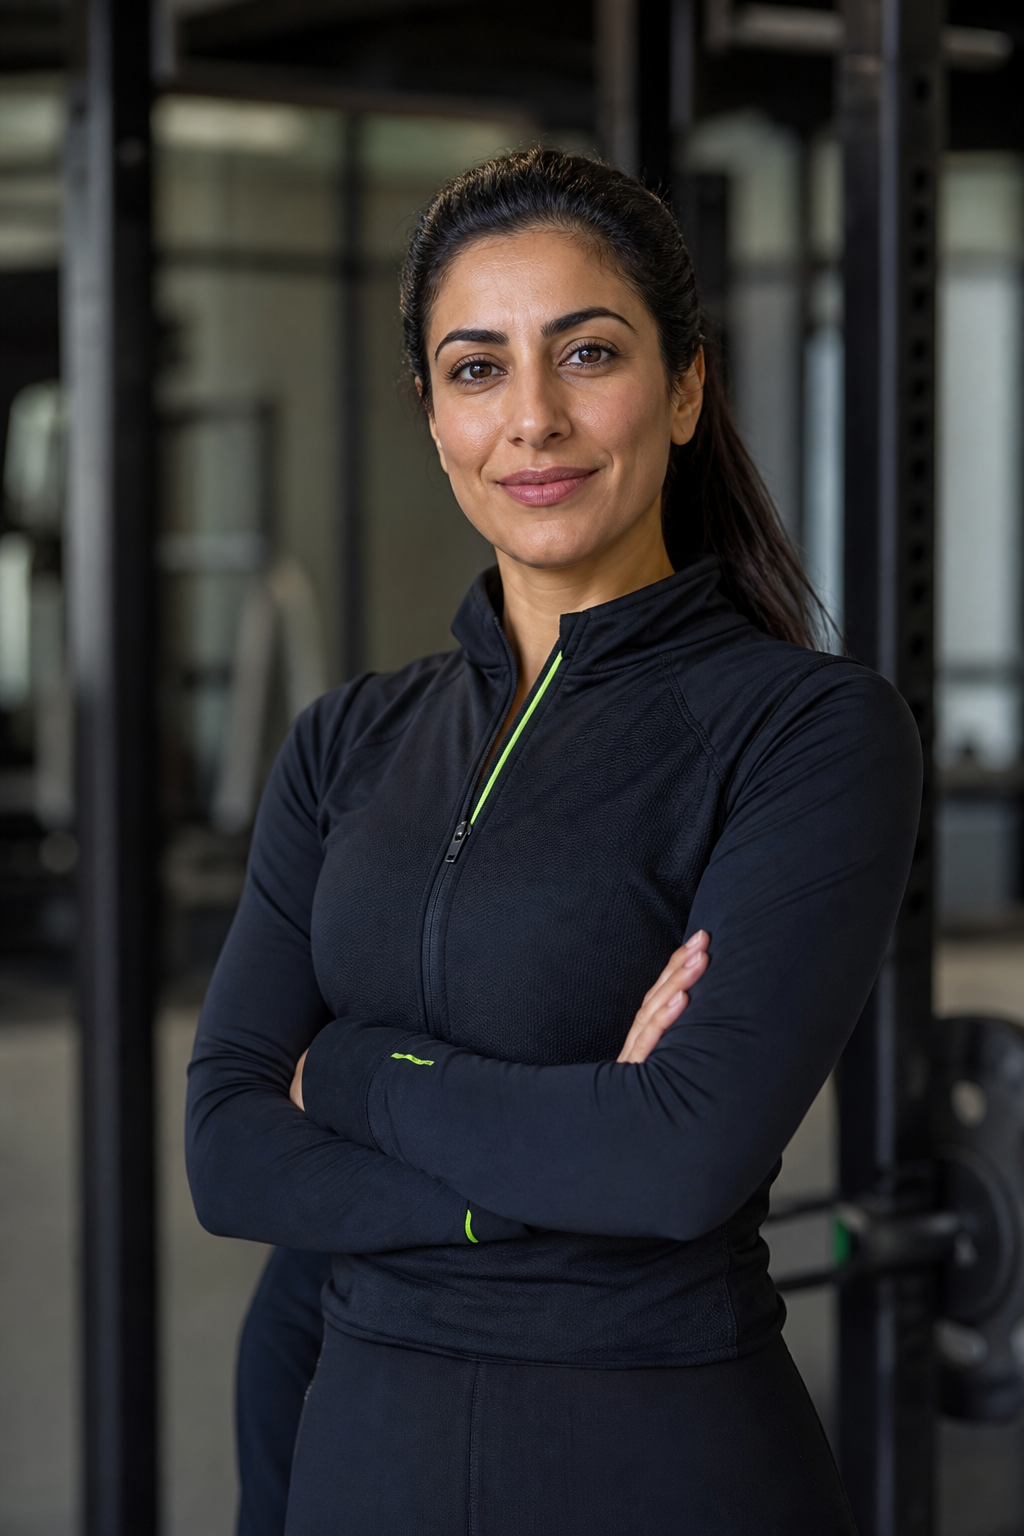
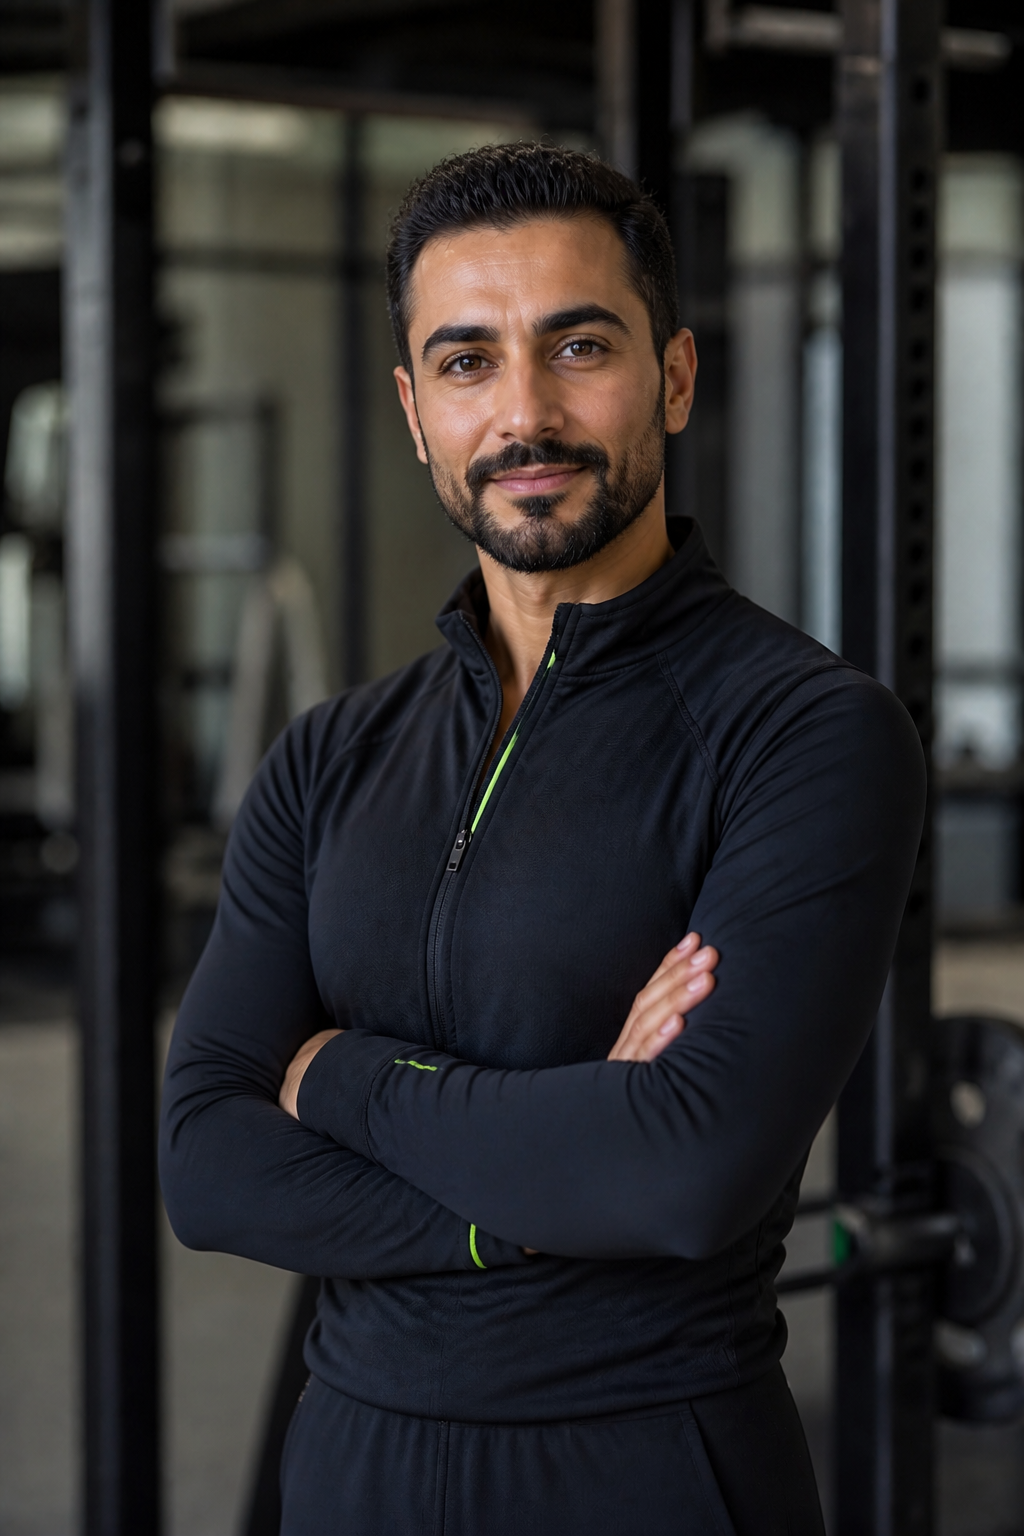
Update website coach imagery and verification metadata

diff --git a/apps/website/src/modules/marketing/lib/landing-assets.ts b/apps/website/src/modules/marketing/lib/landing-assets.ts
@@ -52,7 +52,7 @@ export const LANDING_ASSETS = {
     },
     {
       src: `${MOCK}/coach-2.png`,
-      name: "سارا نوری",
+      name: "سامان نوری",
       role: "مربی عملکرد",
       specialty: "HIIT و عملکرد",
       alt: "مربی عملکرد در حال هدایت جلسه",
@@ -169,7 +169,7 @@ export const LANDING_CLASSES = [
   {
     id: "hiit-morning",
     title: "HIIT صبحگاهی",
-    author: "سارا نوری",
+    author: "سامان نوری",
     category: "آمادگی جسمانی",
     date: "شنبه، ۲۵ خرداد",
     duration: "۴۵ دقیقه",
@@ -329,7 +329,7 @@ export const LANDING_ARTICLES = [
       "میزان پروتئین روزانه را با هدف و وزن خود هماهنگ کن تا ریکاوری کامل شود.",
     category: "نکته",
     coverSrc: `${MOCK}/collection-1.png`,
-    authorName: "سارا نوری",
+    authorName: "سامان نوری",
     publishedAtLabel: "۵ روز پیش",
     readingTimeMinutes: 7,
     viewsLabel: "۲٬۱۱۰",
@@ -373,7 +373,7 @@ export const LANDING_REVIEWS = [
     title: "رزرو کلاس بدون تماس تلفنی",
     content:
       "باشگاه نزدیک را روی نقشه پیدا کردم، کلاس HIIT را رزرو کردم و قبل از جلسه یادآوری آمد.",
-    authorName: "نیلوفر احمدی",
+    authorName: "نوید احمدی",
     authorRole: "عضو اوربن جیم",
     avatarSrc: `${MOCK}/coach-2.png`,
     date: "خرداد ۱۴۰۵",

diff --git a/apps/website/src/app/layout.tsx b/apps/website/src/app/layout.tsx
@@ -22,6 +22,9 @@ export async function generateMetadata(): Promise<Metadata> {
     authors: [{ name: "Gym4Me" }],
     creator: "Gym4Me",
     publisher: "Gym4Me",
+    other: {
+      enamad: "850078462",
+    },
     keywords: ["Gym4Me", "gym", "fitness", "باشگاه", "مربی", "ورزشکار"],
     icons: {
       icon: [
